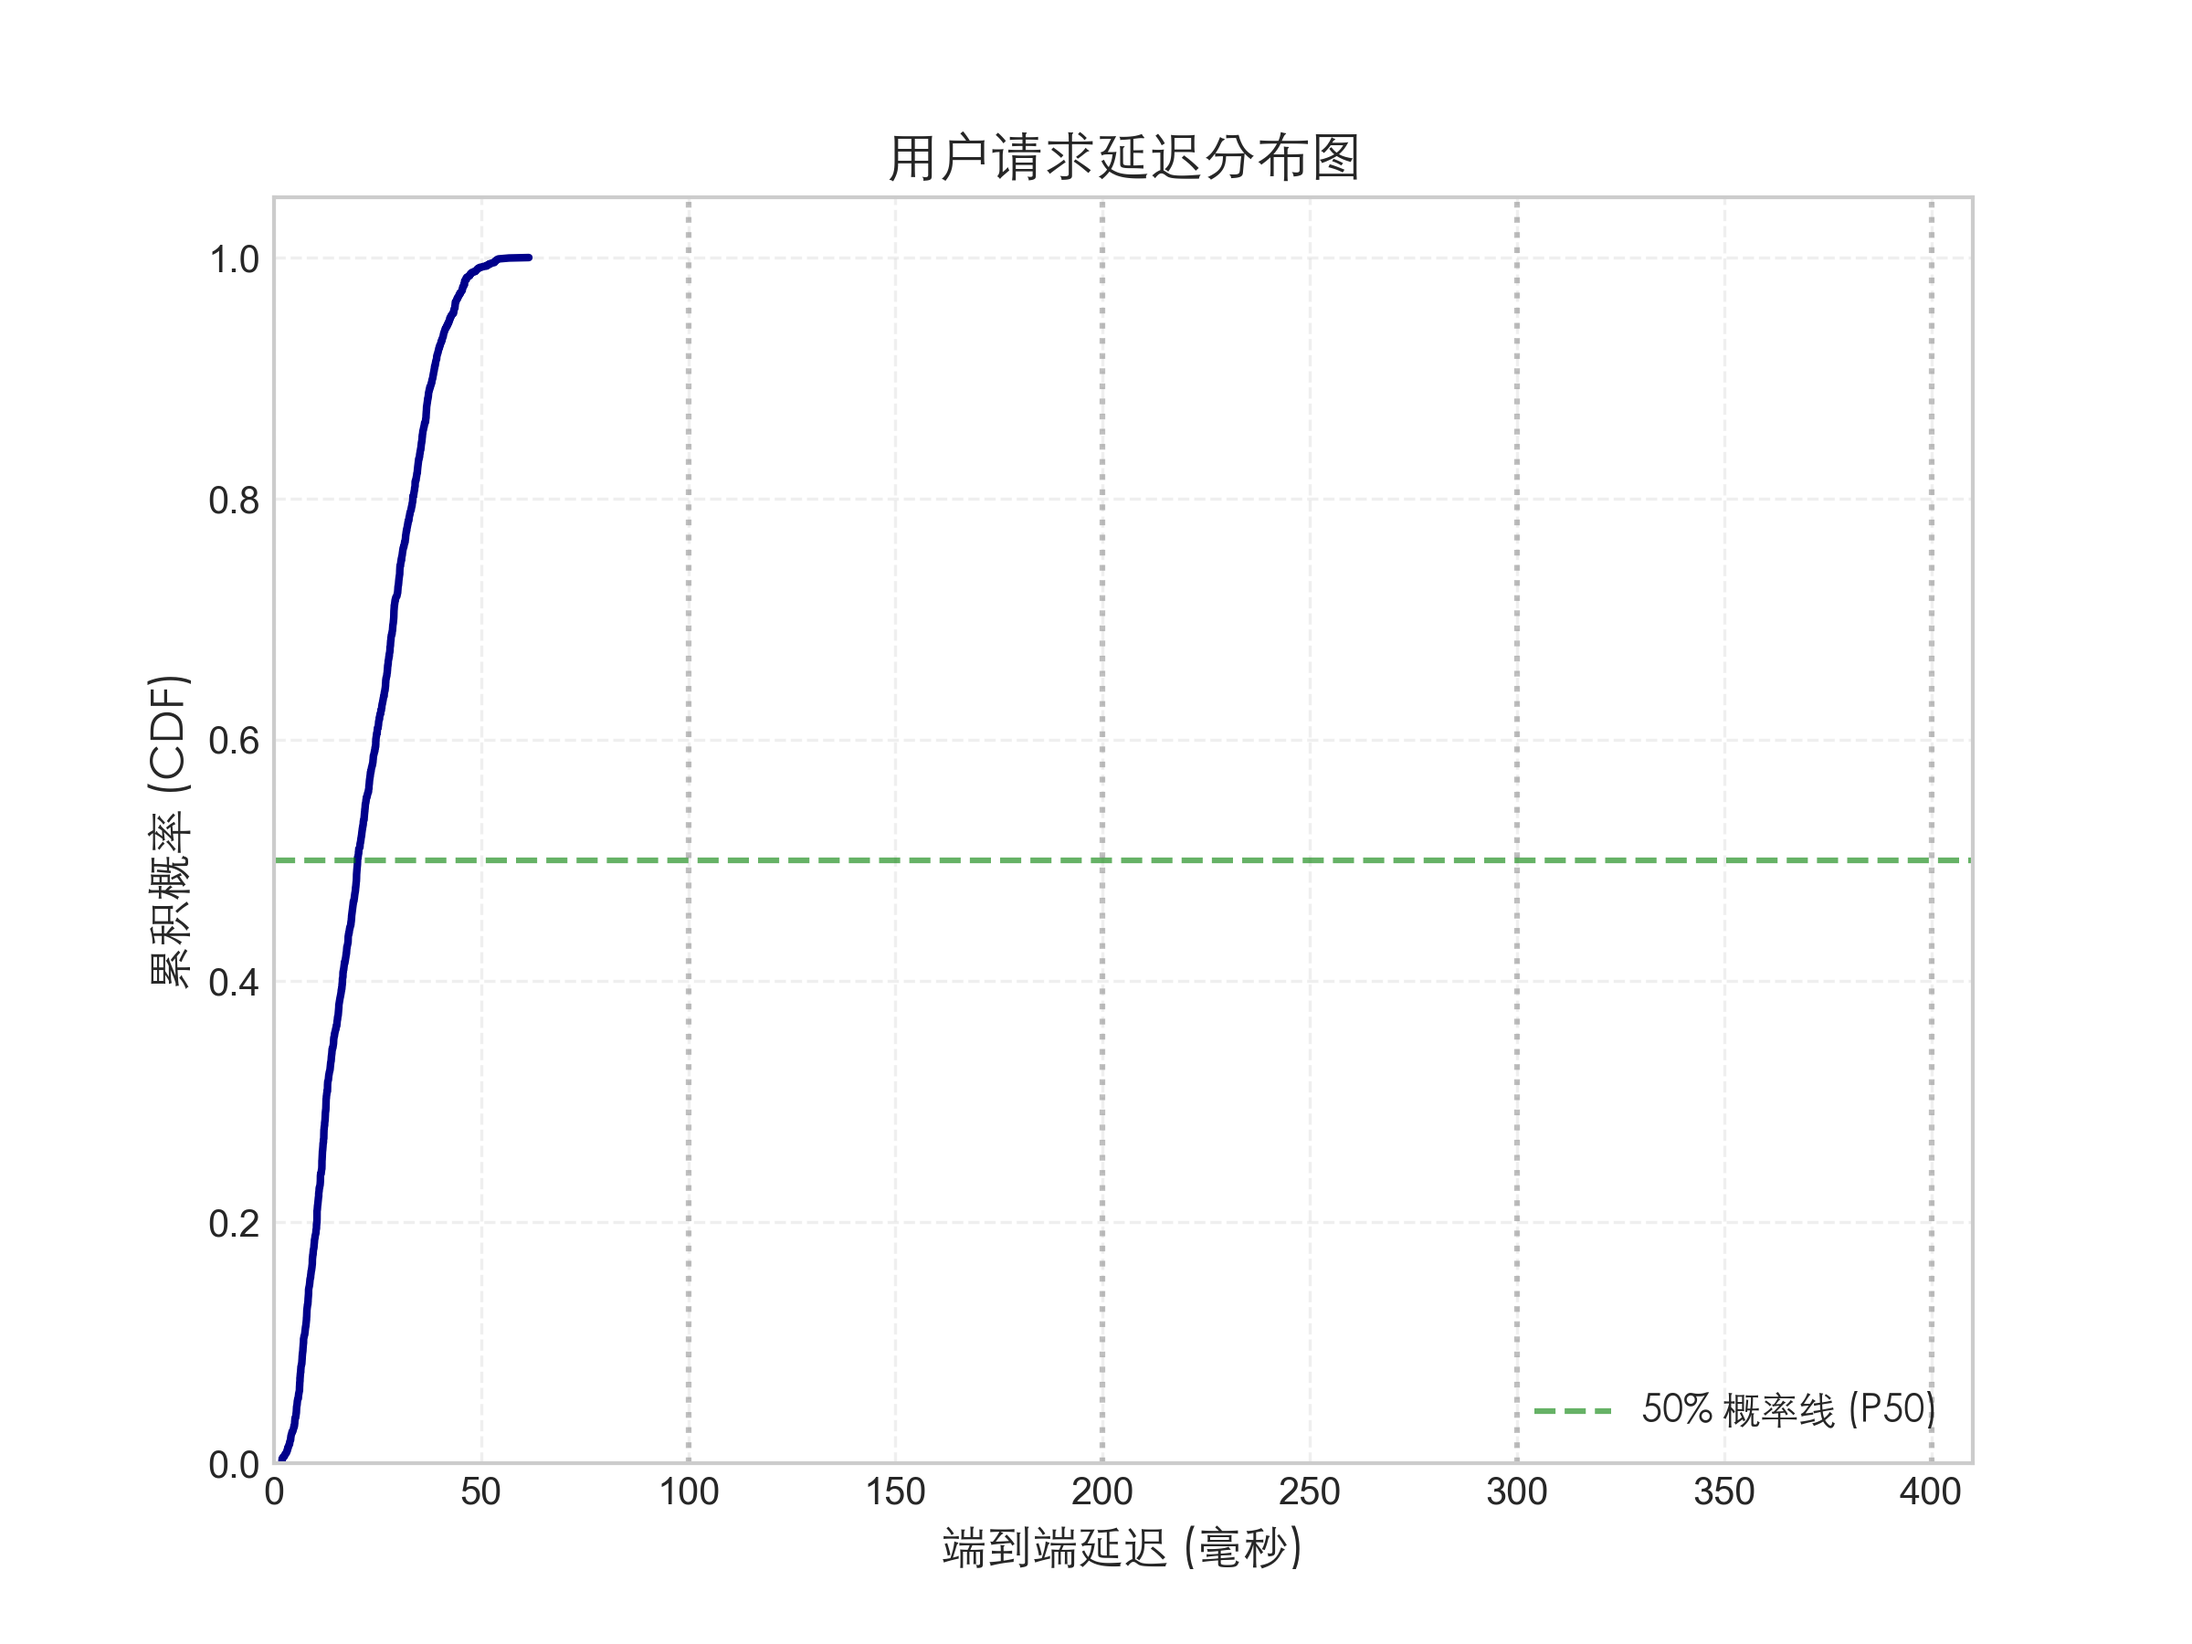
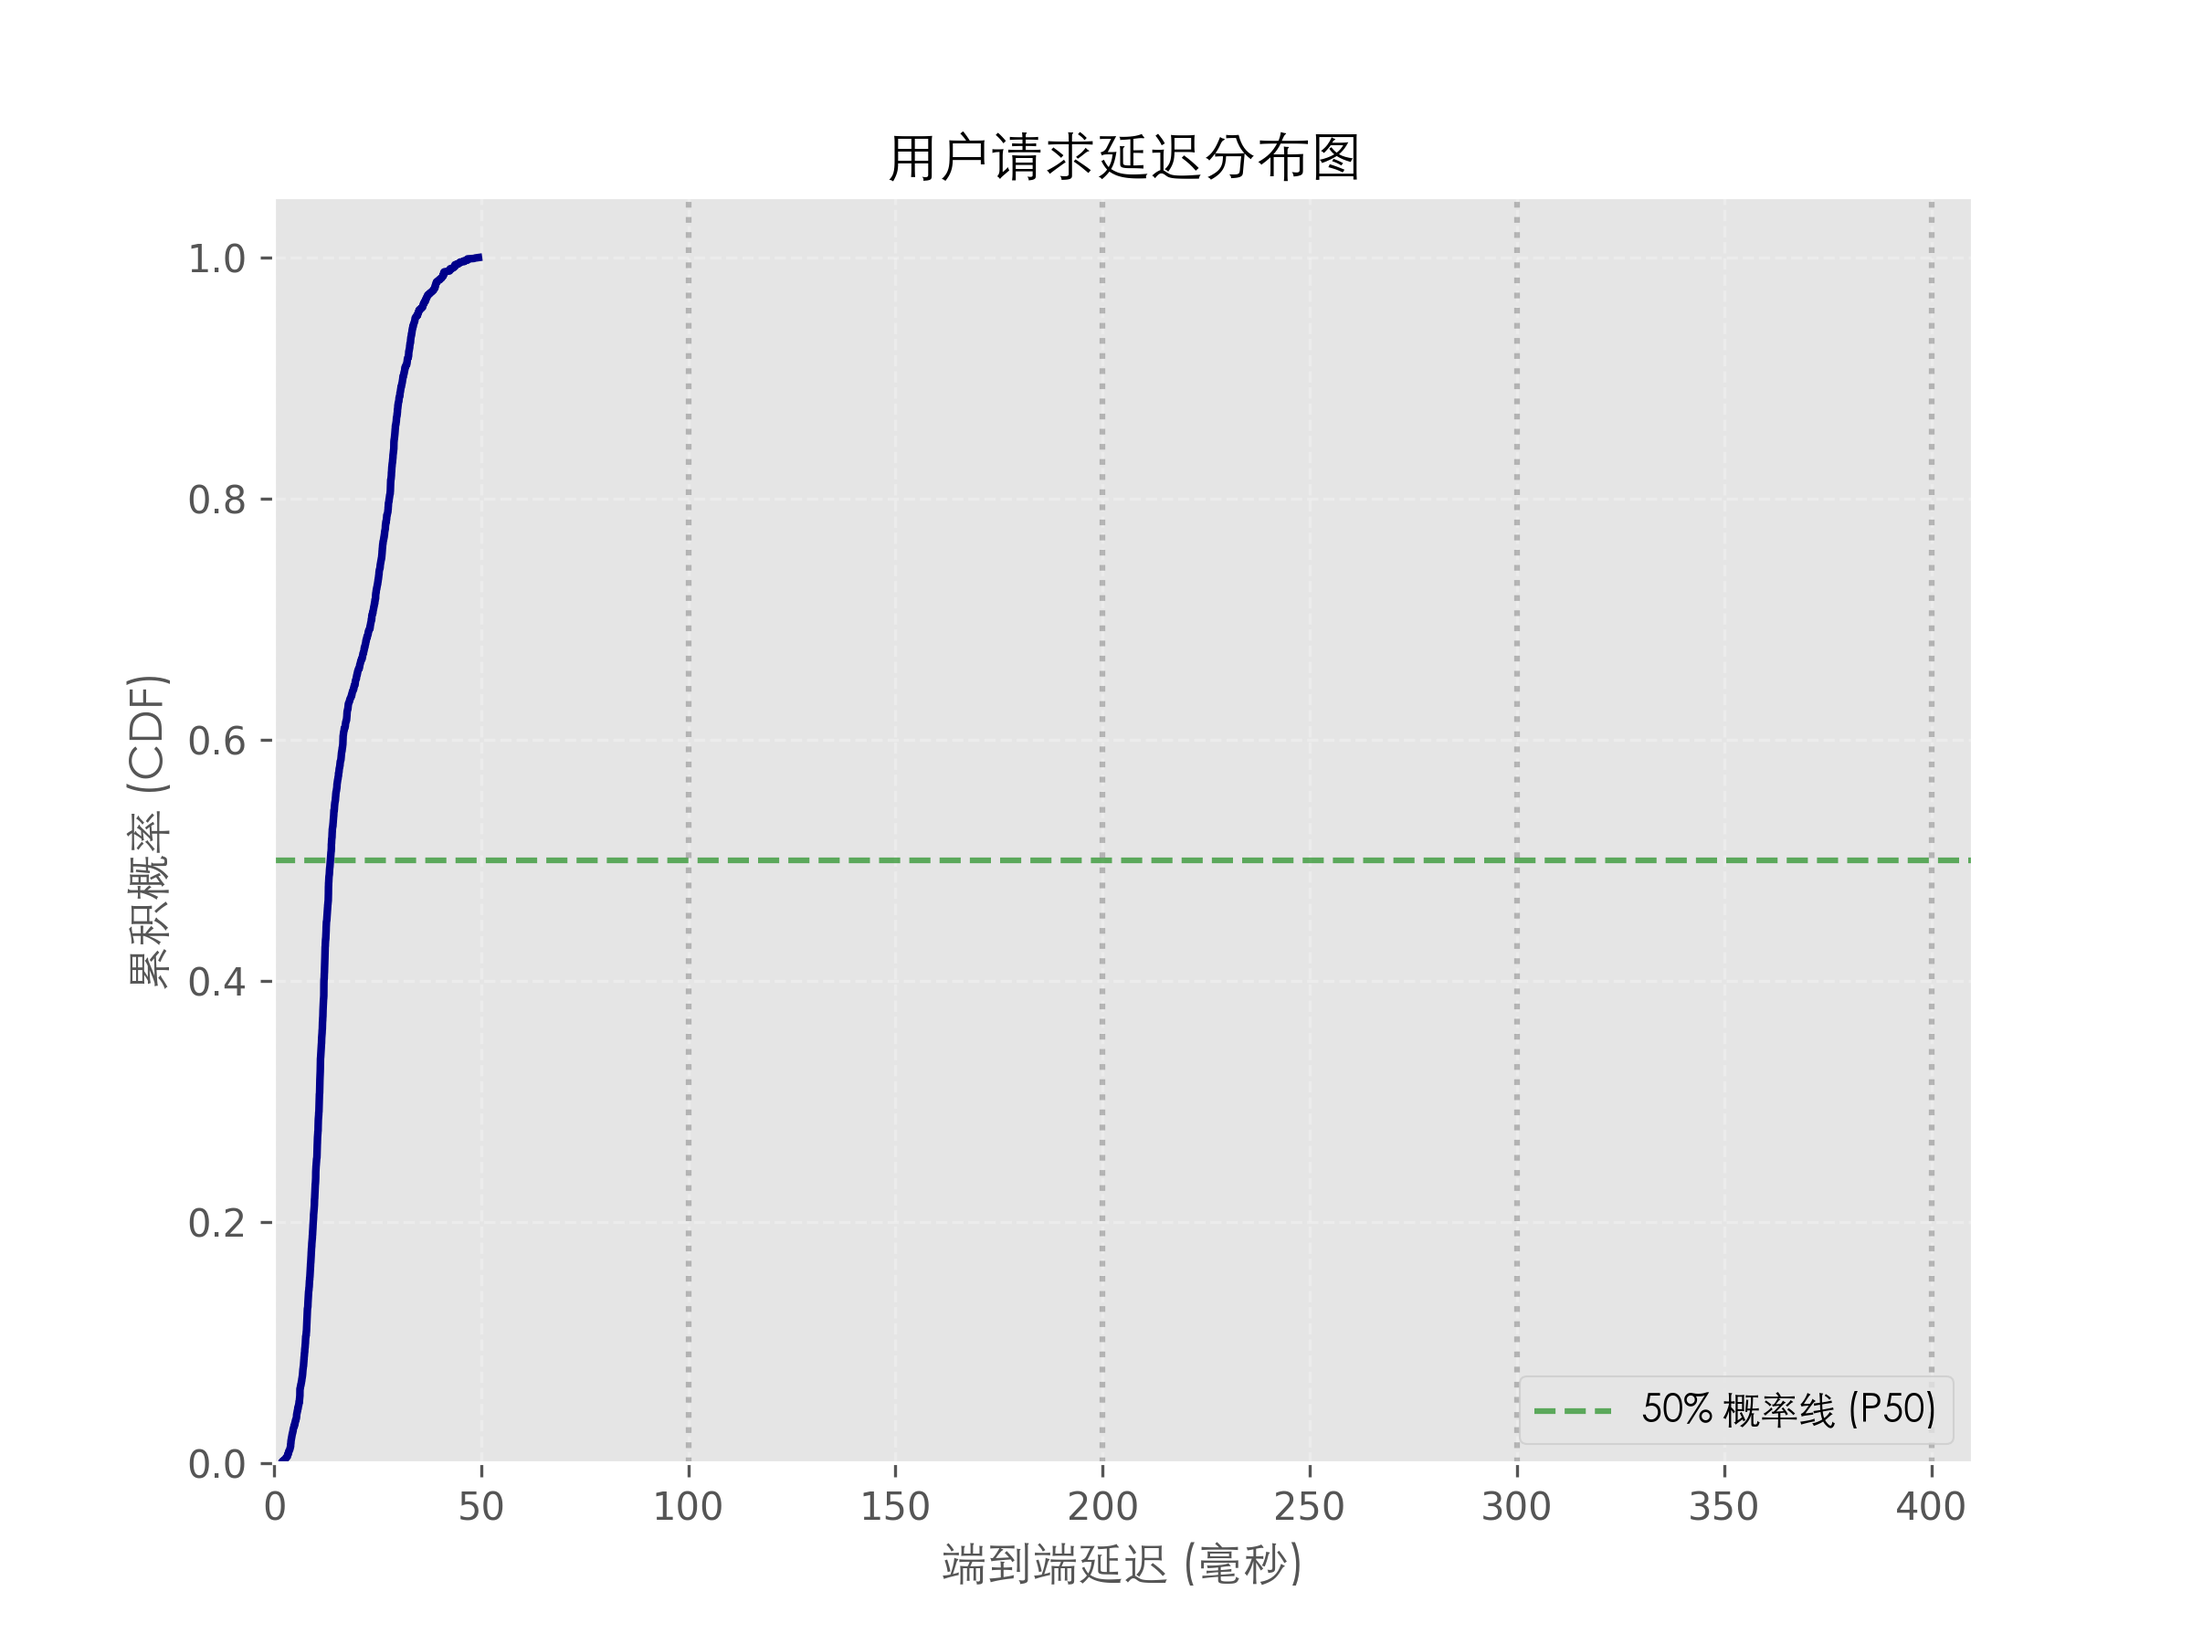
更新缓存机制

diff --git a/Algorithm.py b/Algorithm.py
@@ -73,22 +73,21 @@ def mlc3(mc, requests, current_time, stats, user_coords_list, gs_history_recorde
         routing_start_node_id = access_sat.id
 
         # 计算第一跳延迟 (User -> Access Sat)
-        first_hop_latency = min_dist / 299792.458 #+ content.size / 12.5
+        first_hop_latency = min_dist / 299792.458
 
-        SPEED_OF_LIGHT = 299792.458
-        LATENCY_THRESHOLD = 0.050
+        # 记录本地请求历史，用于 Tier-3 地面站缓存决策
         if access_sat.id in mc.graph:
             for neighbor_id in mc.graph.neighbors(access_sat.id):
                 # 判断邻居是不是地面站
                 if neighbor_id in mc.ground_stations:
                     # 获取 卫星->地面站 的距离权重
                     dist_sat_gs = mc.graph[access_sat.id][neighbor_id]['weight']
-                    lat_sat_gs = dist_sat_gs / SPEED_OF_LIGHT
+                    lat_sat_gs = dist_sat_gs / 299792.458
                     
                     # 计算总延迟: 用户->卫星 + 卫星->地面站
                     total_local_latency = first_hop_latency + lat_sat_gs
                     
-                    if total_local_latency <= LATENCY_THRESHOLD:
+                    if total_local_latency <= 0.050:
                         if neighbor_id not in gs_history_recorder:
                             gs_history_recorder[neighbor_id] = []
                         
@@ -136,8 +135,6 @@ def mlc3(mc, requests, current_time, stats, user_coords_list, gs_history_recorde
         if best_path:
             # min_path_latency 是包含了 User->Sat->...->SDC 的全链路延迟
             latency_sat = min_path_latency
-            
-            latency_gs = 0.200
 
             final_request_latency = 0.0
 
@@ -202,39 +199,51 @@ def mlc3(mc, requests, current_time, stats, user_coords_list, gs_history_recorde
                 'user_id': f"Aggregated({data['req_count']})"
             })
 
-    # 按分数排序，优先缓存高分内容
+    # 按分数从高到低排序
     potential_actions.sort(key=lambda x: x['score'], reverse=True)
 
-    sat_new_usage = {}
+    sat_new_usage = {} # 记录每颗卫星的新使用容量
+
+    actions_to_execute = [] # 记录最终要执行的缓存动作
+
+    # 预处理即将缓存的内容，按照得分从小到大的顺序，防止高分内容被低分内容挤掉
+    for action in potential_actions:
+        node = action['node']
+        content = action['content']
+        
+        # 初始化计数器
+        if node.id not in sat_new_usage:
+            sat_new_usage[node.id] = 0.0
+        
+        # 已经缓存了，直接加入执行列表，刷新热度
+        if content in node.cached_contents:
+            actions_to_execute.append(action)
+            continue
+            
+        # 检查容量配额，分数高的内容先缓存
+        if sat_new_usage[node.id] + content.size <= node.capacity:
+            sat_new_usage[node.id] += content.size
+            actions_to_execute.append(action)
+        else:
+            continue
 
     count_cached = 0
-    for action in potential_actions:
+    # 执行缓存动作，按照得分从低到高执行，高分内容占据最新位置
+    for action in reversed(actions_to_execute):
         node = action['node']
         content = action['content']
         score = action['score']
         user_id = action['user_id']
 
-        # 初始化计数器
-        if node.id not in sat_new_usage:
-            sat_new_usage[node.id] = 0.0
-        
-        if content in node.cached_contents:
-            continue 
-        
-        # 检查容量，容量不足则跳过
-        if sat_new_usage[node.id] + content.size > node.capacity:
-            continue
-
         if node.cache_content(content):
             count_cached += 1
-            sat_new_usage[node.id] += content.size
             print(f"      [Cache] {user_id} -> {node.id} 存入 {content.id} (Score:{score:.2f})")
 
     return step_latencies
 
 def execute_tier3_caching(mc, gs_history_recorder):
     """
-    【新增函数】Tier-3 地面站缓存决策
+    Tier-3 地面站缓存决策
     基于收集到的历史请求进行打分
     """
     for gs_id, history_records in gs_history_recorder.items():
@@ -246,7 +255,7 @@ def execute_tier3_caching(mc, gs_history_recorder):
         if total_records == 0:
             continue
 
-        # 聚合统计 (统计每个内容在历史中出现了几次，平均本地延迟是多少)
+        # 统计每个内容在历史中出现了几次，平均本地延迟是多少
         content_stats = {}
         for record in history_records:
             content = record['content']
@@ -272,9 +281,14 @@ def execute_tier3_caching(mc, gs_history_recorder):
             
             final_score = term1 * term2 * term3
             scores.append((final_score, content))
-        
-        # 排序并执行缓存
-        scores.sort(key=lambda x: x[0], reverse=True)
-        
+
+        # 按照分数由低到高排序
+        scores.sort(key=lambda x: x[0], reverse=False)
+
         for score, content in scores:
+            content = score['content']
+            
             gs.cache_content(content)
+            # print(f"GS {gs.id} cached {content.id} (Score high, safe at back)")
+            
+

diff --git a/Classes.py b/Classes.py
@@ -86,7 +86,7 @@ class Node:
 
         # 未命中，容量不够，删除最老的数据
         while not self.has_space(content.size):
-            # 文件大于卫星总容量
+            # 文件大于节点总容量
             if not self.cached_contents:
                 return False
             
@@ -405,38 +405,38 @@ class MegaConstellation:
                     target_sat_id = sat_ids[idx]
                     self.graph.add_edge(sdc.id, target_sat_id, weight=dist, type='ISL')
         
-        if self.ground_stations:
-            for gs in self.ground_stations.values():
-                # k=1：离 GS 最近的 1 个卫星
-                dist, idx = tree.query(gs.position, k=1)
-                # 设置 2500km 为地面站最大通信距离
-                if dist < 2500:
-                    target_sat_id = sat_ids[idx]
-                    self.graph.add_edge(gs.id, target_sat_id, weight=dist, type='GSL')
-        # 连接 GS
         # if self.ground_stations:
-        #     gs_objs = list(self.ground_stations.values())
-        #     # 地面站坐标是静态的，提取出来
-        #     gs_coords = [gs.position for gs in gs_objs]
-        #     gs_ids = [gs.id for gs in gs_objs]
+        #     for gs in self.ground_stations.values():
+        #         # k=1：离 GS 最近的 1 个卫星
+        #         dist, idx = tree.query(gs.position, k=1)
+        #         # 设置 2500km 为地面站最大通信距离
+        #         if dist < 2500:
+        #             target_sat_id = sat_ids[idx]
+        #             self.graph.add_edge(gs.id, target_sat_id, weight=dist, type='GSL')
+        # 连接 GS
+        if self.ground_stations:
+            gs_objs = list(self.ground_stations.values())
+            # 地面站坐标是静态的，提取出来
+            gs_coords = [gs.position for gs in gs_objs]
+            gs_ids = [gs.id for gs in gs_objs]
             
-        #     # 构建地面站的 KD-Tree
-        #     gs_tree = cKDTree(np.array(gs_coords))
+            # 构建地面站的 KD-Tree
+            gs_tree = cKDTree(np.array(gs_coords))
             
-        #     # 半径搜索 (Query Ball Point)
-        #     indices_list = gs_tree.query_ball_point(sat_coords_np, r=2500)
+            # 半径搜索 (Query Ball Point)
+            indices_list = gs_tree.query_ball_point(sat_coords_np, r=2500)
             
-        #     # 遍历查询结果，添加所有的边
-        #     for i, neighbor_idxs in enumerate(indices_list):
-        #         sat = sat_objs[i]
+            # 遍历查询结果，添加所有的边
+            for i, neighbor_idxs in enumerate(indices_list):
+                sat = sat_objs[i]
                 
-        #         for gs_idx in neighbor_idxs:
-        #             target_gs = gs_objs[gs_idx]
+                for gs_idx in neighbor_idxs:
+                    target_gs = gs_objs[gs_idx]
                     
-        #             # KD-Tree 的 query_ball_point 只返回下标，不返回距离，需手动算一下
-        #             dist = sat.get_distance(target_gs)
+                    # KD-Tree 的 query_ball_point 只返回下标，不返回距离，需手动算一下
+                    dist = sat.get_distance(target_gs)
                     
-        #             self.graph.add_edge(sat.id, target_gs.id, weight=dist, type='GSL')
+                    self.graph.add_edge(sat.id, target_gs.id, weight=dist, type='GSL')
 
     def get_link_delay(self, u, v, content_size):
         """

diff --git a/main.py b/main.py
@@ -2,7 +2,6 @@ from Classes import MegaConstellation
 from config import get_config
 from Algorithm import mlc3, execute_tier3_caching
 from Utils import load_user_coordinates, get_trace_start_time
-import itertools
 import Visualization
 
 
@@ -18,7 +17,6 @@ def run_simulation():
     )
     
     user_coords_list = load_user_coordinates(cfg['paths']['user_nodes'])
-    user_coord_iter = itertools.cycle(user_coords_list)
 
     # 获取 CSV 文件中的开始时间
     start_timestamp = get_trace_start_time(cfg['paths']['trace_file'])
@@ -36,8 +34,6 @@ def run_simulation():
     all_request_latencies = [] # 所有请求的延迟 (秒)
     global_stats = {'total_hits': 0} # 全局统计命中次数
 
-    MAX_HISTORY_PER_GS = 5000
-
     while current_time < end_time:
         print(f"\n[Time: {current_time:.1f}] 正在更新拓扑...")
         
@@ -51,13 +47,13 @@ def run_simulation():
 
         current_step_latencies = mlc3(mc, requests, current_time, global_stats, user_coords_list, gs_history_recorder)
 
-        execute_tier3_caching(mc, gs_history_recorder)
+        execute_tier3_caching(mc, gs_history_recorder) # Tier-3 地面站缓存决策
 
-        # 滑动窗口，限制历史记录大小，防止内存爆炸
+        # 滑动窗口，限制历史记录大小
         for gs_id in gs_history_recorder:
-            if len(gs_history_recorder[gs_id]) > MAX_HISTORY_PER_GS:
-                # 截断，只保留最近的 N 条
-                gs_history_recorder[gs_id] = gs_history_recorder[gs_id][-MAX_HISTORY_PER_GS:]
+            if len(gs_history_recorder[gs_id]) > 5000:
+                # 截断，只保留最近的 5000 条
+                gs_history_recorder[gs_id] = gs_history_recorder[gs_id][-5000:]
 
         if current_step_latencies:
             all_request_latencies.extend(current_step_latencies)

diff --git a/Visualization.py b/Visualization.py
@@ -12,7 +12,8 @@ class ResultVisualizer:
 
         # 设置基础绘图风格
         try:
-            plt.style.use('seaborn-v0_8-whitegrid')
+            plt.style.use(['science','ieee'])
+            # plt.style.use('seaborn-v0_8-whitegrid')
         except OSError:
             plt.style.use('ggplot')
 
